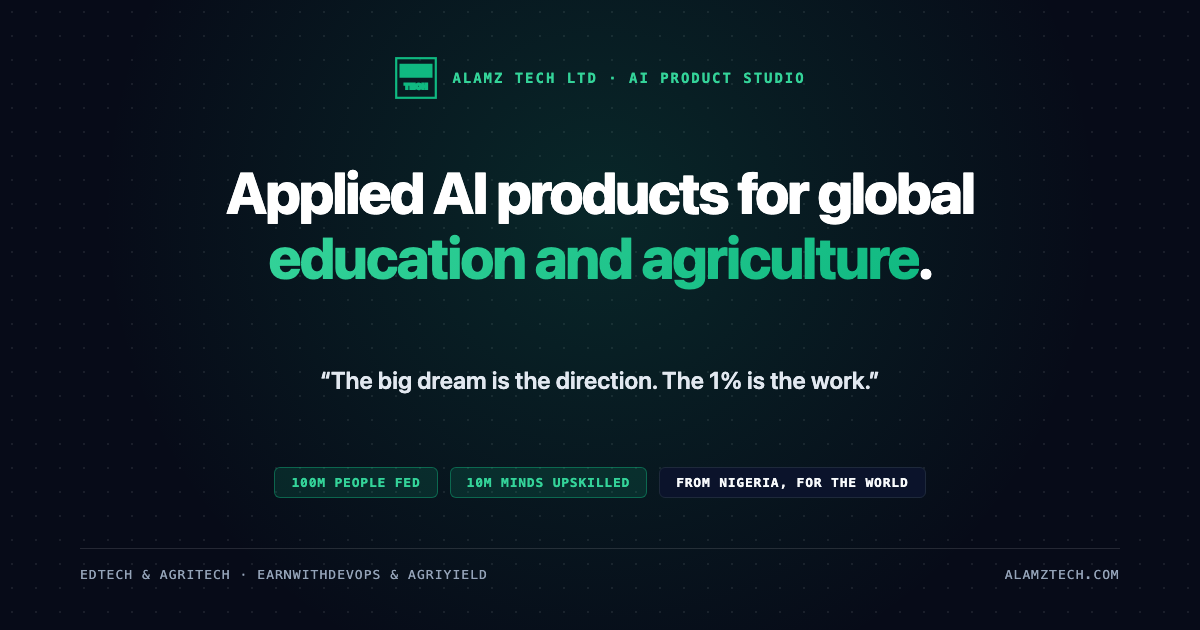
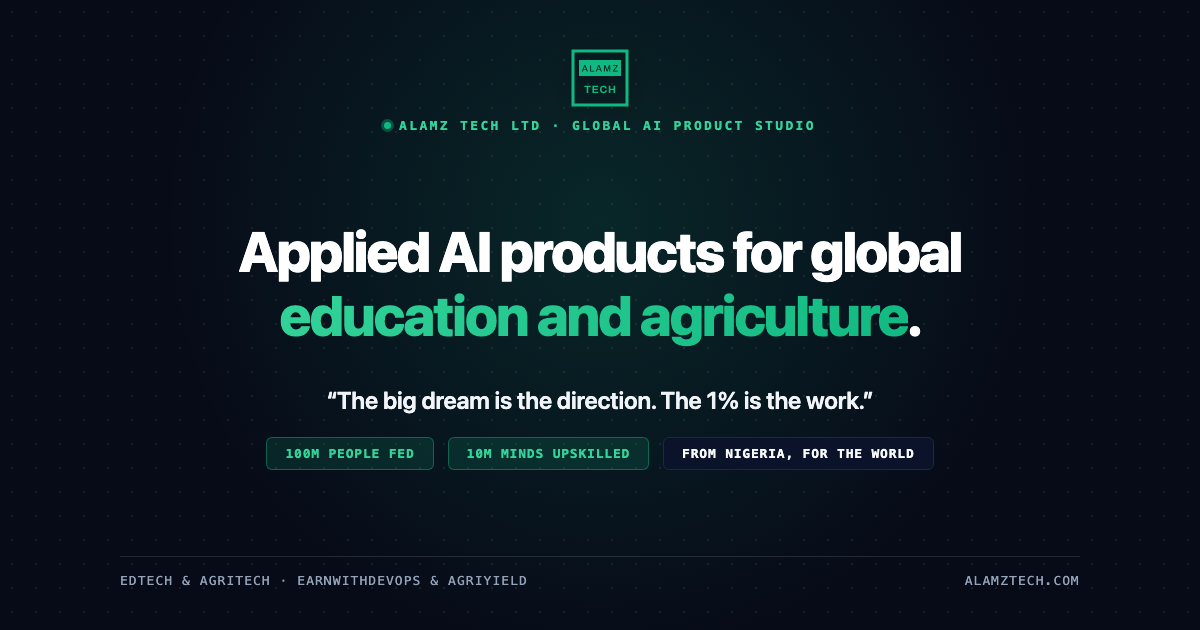
Update OG link preview card: center main heading, move The big dream mission downward, and apply 60-30-10 palette

diff --git a/index.html b/index.html
@@ -17,16 +17,16 @@
 <meta property="og:title" content="Alamz Tech Ltd | AI Product Studio for EdTech & AgriTech">
 <meta property="og:description" content="The big dream is the direction; the 1% is the work. Applied AI software to feed 100 million people and upskill 10 million minds: built from Nigeria, for the world.">
 <meta property="og:url" content="https://alamztech.com/">
-<meta property="og:image" content="https://alamztech.com/assets/og-image.png?v=25">
+<meta property="og:image" content="https://alamztech.com/assets/og-image.png?v=24">
 <meta property="og:image:width" content="1200">
 <meta property="og:image:height" content="630">
 <meta property="og:image:alt" content="Alamz Tech Ltd: AI Product Studio for EdTech & AgriTech.">
 <meta name="twitter:card" content="summary_large_image">
-<meta name="twitter:image" content="https://alamztech.com/assets/og-image.png?v=25">
+<meta name="twitter:image" content="https://alamztech.com/assets/og-image.png?v=24">
 
 <!-- Cache buster query token. Bump on any deploy changing CSS/JS. -->
-<link rel="icon" href="assets/favicon.svg?v=25" type="image/svg+xml">
-<link rel="stylesheet" href="assets/css/styles.css?v=25">
+<link rel="icon" href="assets/favicon.svg?v=24" type="image/svg+xml">
+<link rel="stylesheet" href="assets/css/styles.css?v=24">
 </head>
 <body>
 
@@ -91,39 +91,34 @@
        1. HERO: thesis & dual CTAs
        ==================================================================== -->
   <section class="hero" id="top">
-    <div class="shell">
-      <div class="hero__lead-in">
+    <div class="shell hero__grid">
+      <div>
         <p class="hero__tag">Global AI Product Studio · EdTech & AgriTech</p>
         <h1 class="hero__title">
           Applied AI products for global
           <em>education and agriculture</em>.
         </h1>
-      </div>
-
-      <div class="hero__grid">
-        <div class="hero__content">
-          <p class="hero__sub" data-bind="brand.heroSub"></p>
-          <div class="hero__actions">
-            <a class="btn btn--primary" href="#products">
-              See our products
-              <svg class="btn__arrow" viewBox="0 0 16 16" fill="none" stroke="currentColor"
-                   stroke-width="1.9" stroke-linecap="round" stroke-linejoin="round" aria-hidden="true">
-                <path d="M3 8h10M9 4l4 4-4 4"/>
-              </svg>
-            </a>
-            <a class="btn btn--ghost" href="#services">Explore services</a>
-          </div>
+        <p class="hero__sub" data-bind="brand.heroSub"></p>
+        <div class="hero__actions">
+          <a class="btn btn--primary" href="#products">
+            See our products
+            <svg class="btn__arrow" viewBox="0 0 16 16" fill="none" stroke="currentColor"
+                 stroke-width="1.9" stroke-linecap="round" stroke-linejoin="round" aria-hidden="true">
+              <path d="M3 8h10M9 4l4 4-4 4"/>
+            </svg>
+          </a>
+          <a class="btn btn--ghost" href="#services">Explore services</a>
         </div>
-
-        <aside class="datasheet reveal" aria-label="Core capabilities">
-          <div class="datasheet__head">
-            <span data-bind="hero.capabilitiesLabel"></span>
-            <span class="datasheet__dot" aria-hidden="true"></span>
-          </div>
-          <div class="datasheet__list" id="hero-capabilities"></div>
-          <p class="datasheet__foot" data-bind="hero.capabilitiesFoot"></p>
-        </aside>
       </div>
+
+      <aside class="datasheet reveal" aria-label="Core capabilities">
+        <div class="datasheet__head">
+          <span data-bind="hero.capabilitiesLabel"></span>
+          <span class="datasheet__dot" aria-hidden="true"></span>
+        </div>
+        <div class="datasheet__list" id="hero-capabilities"></div>
+        <p class="datasheet__foot" data-bind="hero.capabilitiesFoot"></p>
+      </aside>
     </div>
   </section>
 

diff --git a/tools/make-og.py b/tools/make-og.py
@@ -1,8 +1,8 @@
 #!/usr/bin/env python3
 """Render the Open Graph card for Alamz Tech (1200x630) using headless Google Chrome.
 
-Generates a pixel-perfect 1200x630 centered card reflecting the 60-30-10 Studio Color System:
-Deep Space Blue (#070B18), Digital Chlorophyll (#10B981), and the 1% Mission.
+Generates a centered, high-contrast 1200x630 card reflecting the 60-30-10 Studio Color System:
+Deep Space Obsidian (#070B18 / #0B132B), Digital Chlorophyll (#10B981 / #34D399), and the 1% Mission.
 """
 import os
 import pathlib
@@ -11,22 +11,24 @@ import tempfile
 
 ROOT = pathlib.Path(__file__).resolve().parent.parent
 ASSETS = ROOT / "assets"
+LOGO_SVG = (ASSETS / "logo.svg").read_text()
+GREEN_LOGO = LOGO_SVG.replace("currentColor", "#10B981")
 OUT_PNG = ASSETS / "og-image.png"
 
 CHROME_BIN = "/Applications/Google Chrome.app/Contents/MacOS/Google Chrome"
 
-HTML_TEMPLATE = """<!DOCTYPE html>
+HTML_TEMPLATE = f"""<!DOCTYPE html>
 <html>
 <head>
 <meta charset="utf-8">
 <style>
-* { box-sizing: border-box; margin: 0; padding: 0; }
-body {
+* {{ box-sizing: border-box; margin: 0; padding: 0; }}
+body {{
   width: 1200px;
   height: 630px;
   background-color: #070B18;
   background-image: 
-    radial-gradient(circle at 50% 210px, rgba(16, 185, 129, 0.16) 0%, transparent 68%),
+    radial-gradient(circle at 50% 35%, rgba(16, 185, 129, 0.16) 0%, transparent 60%),
     radial-gradient(rgba(255, 255, 255, 0.08) 1.5px, transparent 1.5px);
   background-size: 100% 100%, 24px 24px;
   font-family: ui-sans-serif, -apple-system, BlinkMacSystemFont, "Segoe UI", Roboto, sans-serif;
@@ -36,71 +38,94 @@ body {
   align-items: center;
   justify-content: space-between;
   text-align: center;
-  padding: 56px 80px 48px;
-  position: relative;
+  padding: 48px 80px 42px;
   overflow: hidden;
-}
+}}
 
-.top-bar {
+.top-section {{
   display: flex;
-  align-items: center;
-  gap: 14px;
-}
-
-.logo-icon {
-  width: 44px;
-  height: 44px;
-}
-
-.eyebrow {
-  display: inline-flex;
+  flex-direction: column;
   align-items: center;
   gap: 10px;
+}}
+
+.logo-box {{
+  width: 60px;
+  height: 60px;
+  display: flex;
+  align-items: center;
+  justify-content: center;
+  filter: drop-shadow(0 6px 14px rgba(0, 0, 0, 0.4));
+}}
+
+.logo-box svg {{
+  width: 100%;
+  height: 100%;
+}}
+
+.eyebrow {{
   font-family: ui-monospace, "SF Mono", Menlo, monospace;
-  font-size: 14px;
-  font-weight: 600;
-  letter-spacing: 0.14em;
+  font-size: 13px;
+  font-weight: 700;
+  letter-spacing: 0.18em;
   text-transform: uppercase;
   color: #34D399;
-}
+  display: flex;
+  align-items: center;
+  gap: 8px;
+}}
 
-.title {
-  font-size: 58px;
+.dot {{
+  width: 7px;
+  height: 7px;
+  border-radius: 50%;
+  background: #10B981;
+  box-shadow: 0 0 0 3px rgba(16, 185, 129, 0.35);
+}}
+
+.main-block {{
+  display: flex;
+  flex-direction: column;
+  align-items: center;
+}}
+
+.title {{
+  font-size: 56px;
   font-weight: 800;
-  line-height: 1.12;
+  line-height: 1.15;
   letter-spacing: -0.035em;
   color: #FFFFFF;
-  max-width: 960px;
-  margin-top: 10px;
-}
+  max-width: 1040px;
+}}
 
-.title em {
+.title em {{
   font-style: normal;
   color: #34D399;
   background: linear-gradient(135deg, #34D399 0%, #10B981 100%);
   -webkit-background-clip: text;
   -webkit-text-fill-color: transparent;
-}
+}}
 
-.quote {
+.quote {{
   font-size: 24px;
   font-weight: 600;
-  color: #E2E8F0;
-  line-height: 1.35;
-  margin-top: 24px;
-}
+  color: #F1F5F9;
+  line-height: 1.4;
+  margin-top: 36px;
+  letter-spacing: -0.01em;
+}}
 
-.mission-badges {
+.mission-badges {{
   display: flex;
   justify-content: center;
-  gap: 12px;
+  gap: 14px;
   margin-top: 20px;
-}
+}}
 
-.badge {
+.badge {{
   display: inline-flex;
   align-items: center;
-  padding: 7px 16px;
+  padding: 8px 18px;
   border-radius: 6px;
   background: rgba(16, 185, 129, 0.14);
   border: 1px solid rgba(16, 185, 129, 0.42);
@@ -109,18 +134,19 @@ body {
   font-weight: 700;
   letter-spacing: 0.06em;
   color: #34D399;
-}
+}}
 
-.badge--accent {
+.badge--accent {{
   background: #0B132B;
   border: 1px solid #1E293B;
   color: #F8FAFC;
-}
+}}
 
-.footer {
+.footer {{
   width: 100%;
+  max-width: 960px;
   border-top: 1px solid rgba(255, 255, 255, 0.12);
-  padding-top: 18px;
+  padding-top: 16px;
   display: flex;
   justify-content: space-between;
   align-items: center;
@@ -128,32 +154,29 @@ body {
   font-size: 13px;
   color: #94A3B8;
   letter-spacing: 0.08em;
-}
+}}
 </style>
 </head>
 <body>
-<div class="top-bar">
-  <div class="logo-icon">
-    <svg viewBox="0 0 120 120" fill="none" stroke="#10B981" stroke-width="6">
-      <rect x="6" y="6" width="108" height="108" stroke="#10B981" stroke-width="6"/>
-      <path fill="#10B981" fill-rule="evenodd" d="M18 24H102V56H18ZM23.69 47L28.57 34.65L30.81 34.65L35.7 47L33.85 47L32.65 43.94L26.64 43.94L25.45 47ZM27.2 42.47L32.08 42.47L30.58 38.61C30.54 38.5 30.48 38.35 30.41 38.16C30.34 37.97 30.27 37.76 30.19 37.52C30.1 37.29 30.02 37.05 29.93 36.8C29.85 36.56 29.77 36.33 29.7 36.13L29.58 36.13C29.51 36.37 29.41 36.64 29.3 36.95C29.19 37.26 29.08 37.57 28.98 37.86C28.87 38.16 28.78 38.41 28.7 38.61ZM27.2 42.47M40.38 47L40.38 34.65L42.09 34.65L42.09 45.5L48.24 45.5L48.24 47ZM40.38 47M51.61 47L56.49 34.65L58.73 34.65L63.62 47L61.77 47L60.58 43.94L54.56 43.94L53.37 47ZM55.12 42.47L60 42.47L58.5 38.61C58.46 38.5 58.4 38.35 58.34 38.16C58.27 37.97 58.19 37.76 58.11 37.52C58.02 37.29 57.94 37.05 57.85 36.8C57.77 36.56 57.69 36.33 57.62 36.13L57.5 36.13C57.43 36.37 57.33 36.64 57.22 36.95C57.11 37.26 57 37.57 56.9 37.86C56.79 38.16 56.7 38.41 56.62 38.61ZM55.12 42.47M68.3 47L68.3 34.65L70.95 34.65L73.76 42.67C73.84 42.88 73.91 43.12 73.99 43.37C74.06 43.63 74.13 43.87 74.2 44.1C74.26 44.33 74.31 44.53 74.35 44.69L74.47 44.69C74.51 44.52 74.56 44.31 74.62 44.07C74.68 43.84 74.75 43.59 74.82 43.34C74.89 43.09 74.95 42.86 75.01 42.66L77.83 34.65L80.45 34.65L80.45 47L78.74 47L78.74 39.77C78.74 39.39 78.75 38.99 78.76 38.55C78.77 38.12 78.78 37.71 78.79 37.35C78.8 36.98 78.81 36.71 78.81 36.55L78.67 36.55C78.63 36.72 78.57 36.94 78.49 37.22C78.41 37.5 78.32 37.8 78.23 38.1C78.14 38.41 78.06 38.68 77.98 38.92L75.09 47L73.61 47L70.72 38.93C70.65 38.71 70.57 38.47 70.49 38.2C70.41 37.94 70.34 37.66 70.26 37.37C70.18 37.08 70.1 36.81 70.04 36.55L69.9 36.55C69.91 36.83 69.92 37.16 69.93 37.54C69.94 37.93 69.94 38.32 69.95 38.71C69.96 39.11 69.97 39.46 69.97 39.77L69.97 47ZM68.3 47M85.58 47L85.58 46.12L93.07 36.13L86.05 36.13L86.05 34.65L95.61 34.65L95.61 35.53L88.1 45.52L95.78 45.52L95.78 47ZM85.58 47"/>
-      <path fill="#10B981" d="M33.38 90L33.38 78.23L28.74 78.23L28.74 75.58L41.16 75.58L41.16 78.23L36.52 78.23L36.52 90ZM33.38 90M44.8 90L44.8 75.58L56.31 75.58L56.31 78.16L47.94 78.16L47.94 81.37L55.34 81.37L55.34 83.92L47.94 83.92L47.94 87.42L56.44 87.42L56.44 90ZM44.8 90M67.09 90.25C65.58 90.25 64.3 89.99 63.24 89.46C62.18 88.93 61.37 88.12 60.82 87.02C60.26 85.92 59.98 84.51 59.98 82.79C59.98 80.27 60.6 78.4 61.84 77.17C63.08 75.95 64.83 75.33 67.09 75.33C68.32 75.33 69.43 75.54 70.4 75.96C71.38 76.38 72.15 77.01 72.72 77.85C73.29 78.7 73.58 79.76 73.58 81.03L70.43 81.03C70.43 80.37 70.29 79.8 70.01 79.33C69.73 78.86 69.34 78.51 68.85 78.26C68.35 78.02 67.77 77.89 67.11 77.89C66.23 77.89 65.49 78.07 64.91 78.42C64.33 78.77 63.9 79.29 63.63 79.97C63.35 80.65 63.22 81.48 63.22 82.47L63.22 83.12C63.22 84.12 63.35 84.96 63.63 85.63C63.91 86.31 64.33 86.83 64.91 87.17C65.48 87.52 66.21 87.69 67.1 87.69C67.81 87.69 68.42 87.57 68.93 87.33C69.44 87.1 69.84 86.75 70.12 86.28C70.4 85.82 70.54 85.25 70.54 84.58L73.58 84.58C73.58 85.86 73.3 86.91 72.74 87.75C72.18 88.59 71.42 89.22 70.44 89.63C69.47 90.04 68.35 90.25 67.09 90.25ZM67.09 90.25M77.53 90L77.53 75.58L80.67 75.58L80.67 81.32L87.04 81.32L87.04 75.58L90.19 75.58L90.19 90L87.04 90L87.04 83.96L80.67 83.96L80.67 90ZM77.53 90"/>
-    </svg>
+<div class="top-section">
+  <div class="logo-box">{GREEN_LOGO}</div>
+  <div class="eyebrow">
+    <span class="dot"></span>
+    <span>Alamz Tech Ltd · Global AI Product Studio</span>
   </div>
-  <div class="eyebrow">Alamz Tech Ltd · AI Product Studio</div>
 </div>
 
-<h1 class="title">
-  Applied AI products for global<br>
-  <em>education and agriculture</em>.
-</h1>
-
-<p class="quote">“The big dream is the direction. The 1% is the work.”</p>
-
-<div class="mission-badges">
-  <span class="badge">100M PEOPLE FED</span>
-  <span class="badge">10M MINDS UPSKILLED</span>
-  <span class="badge badge--accent">FROM NIGERIA, FOR THE WORLD</span>
+<div class="main-block">
+  <h1 class="title">
+    Applied AI products for global<br>
+    <em>education and agriculture</em>.
+  </h1>
+  <p class="quote">“The big dream is the direction. The 1% is the work.”</p>
+  <div class="mission-badges">
+    <span class="badge">100M PEOPLE FED</span>
+    <span class="badge">10M MINDS UPSKILLED</span>
+    <span class="badge badge--accent">FROM NIGERIA, FOR THE WORLD</span>
+  </div>
 </div>
 
 <div class="footer">
